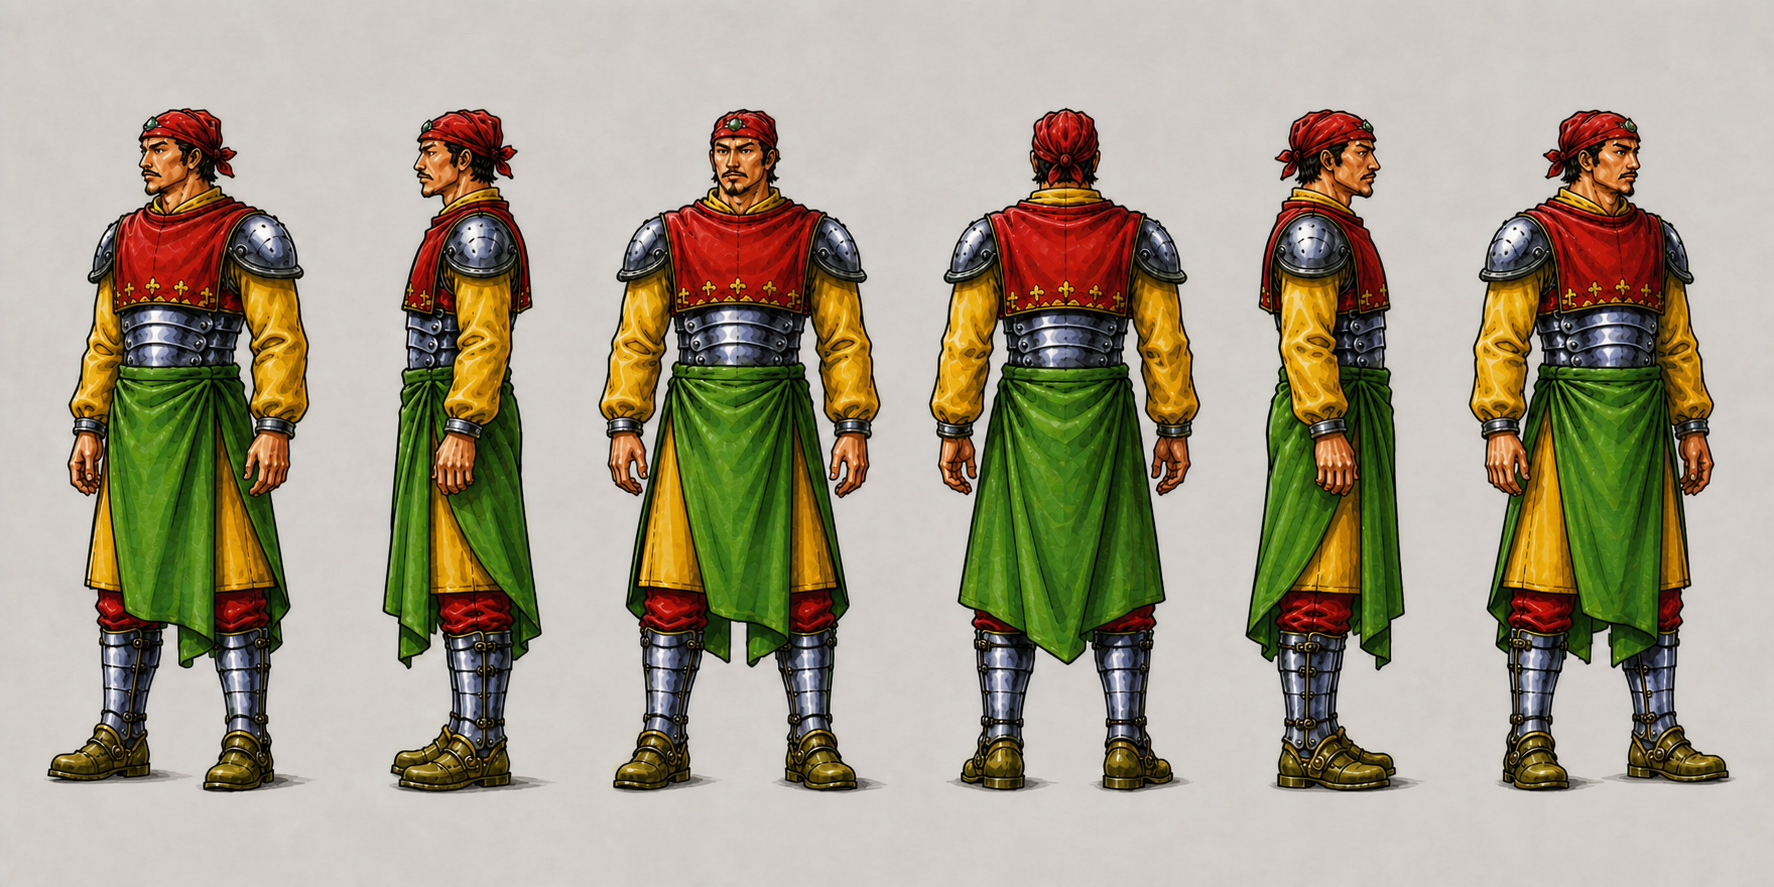
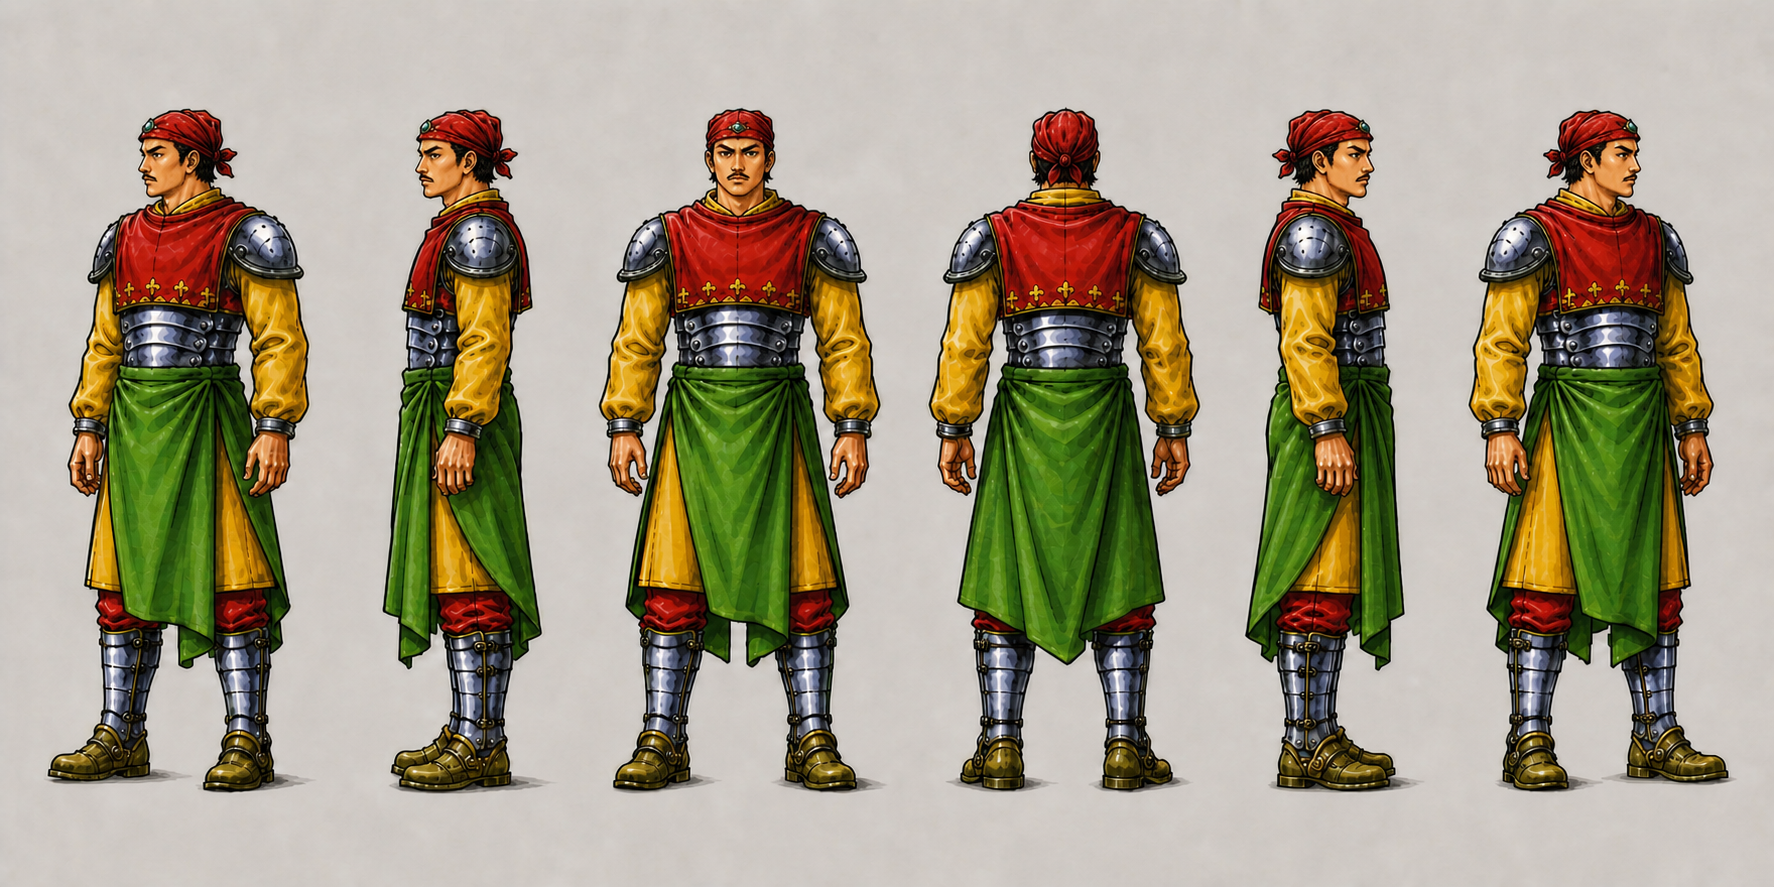
fix(051): 修正年轻面相与下巴无须设定
统一更新头部四视图、中立六视图与原画姿态六视图，并同步角色规格、生成提示和返修记录。\n\n保留返修前版本用于追溯。

diff --git a/character-model-sheets/characters/051/review-notes.md b/character-model-sheets/characters/051/review-notes.md
@@ -28,3 +28,11 @@
 - [x] 纯后脑没有出现面部；左右侧面来自角色不同解剖侧，未用表情变化代替视角变化。
 - [x] 原图未展示的后脑与连接结构继续按规格中的 `inferred`／`unknown` 克制处理，不宣称为原作事实。
 - 状态保持 `generated`，等待用户批准。
+
+## 2026-08-22 年龄与胡须返修
+
+- [x] 头部四视图、中立六视图及原画姿态六视图已统一为更年轻的成年英雄面相。
+- [x] 所有可见正面与侧面仅保留上唇红褐短髭；下唇下方、下巴、两侧下颌与面颊均无山羊胡、短须或须茬。
+- [x] 方脸、浓眉、警觉神态、红头巾、发型、体型、服装、甲胄、配色、武器、姿态及固定视图顺序保持不变。
+- [x] 返修前版本已保留为 `head-sheet-v1.png`、`character-turnaround-v3.png` 与 `character-turnaround-original-pose-v1.png`。
+- 状态保持 `generated`，等待用户批准。
